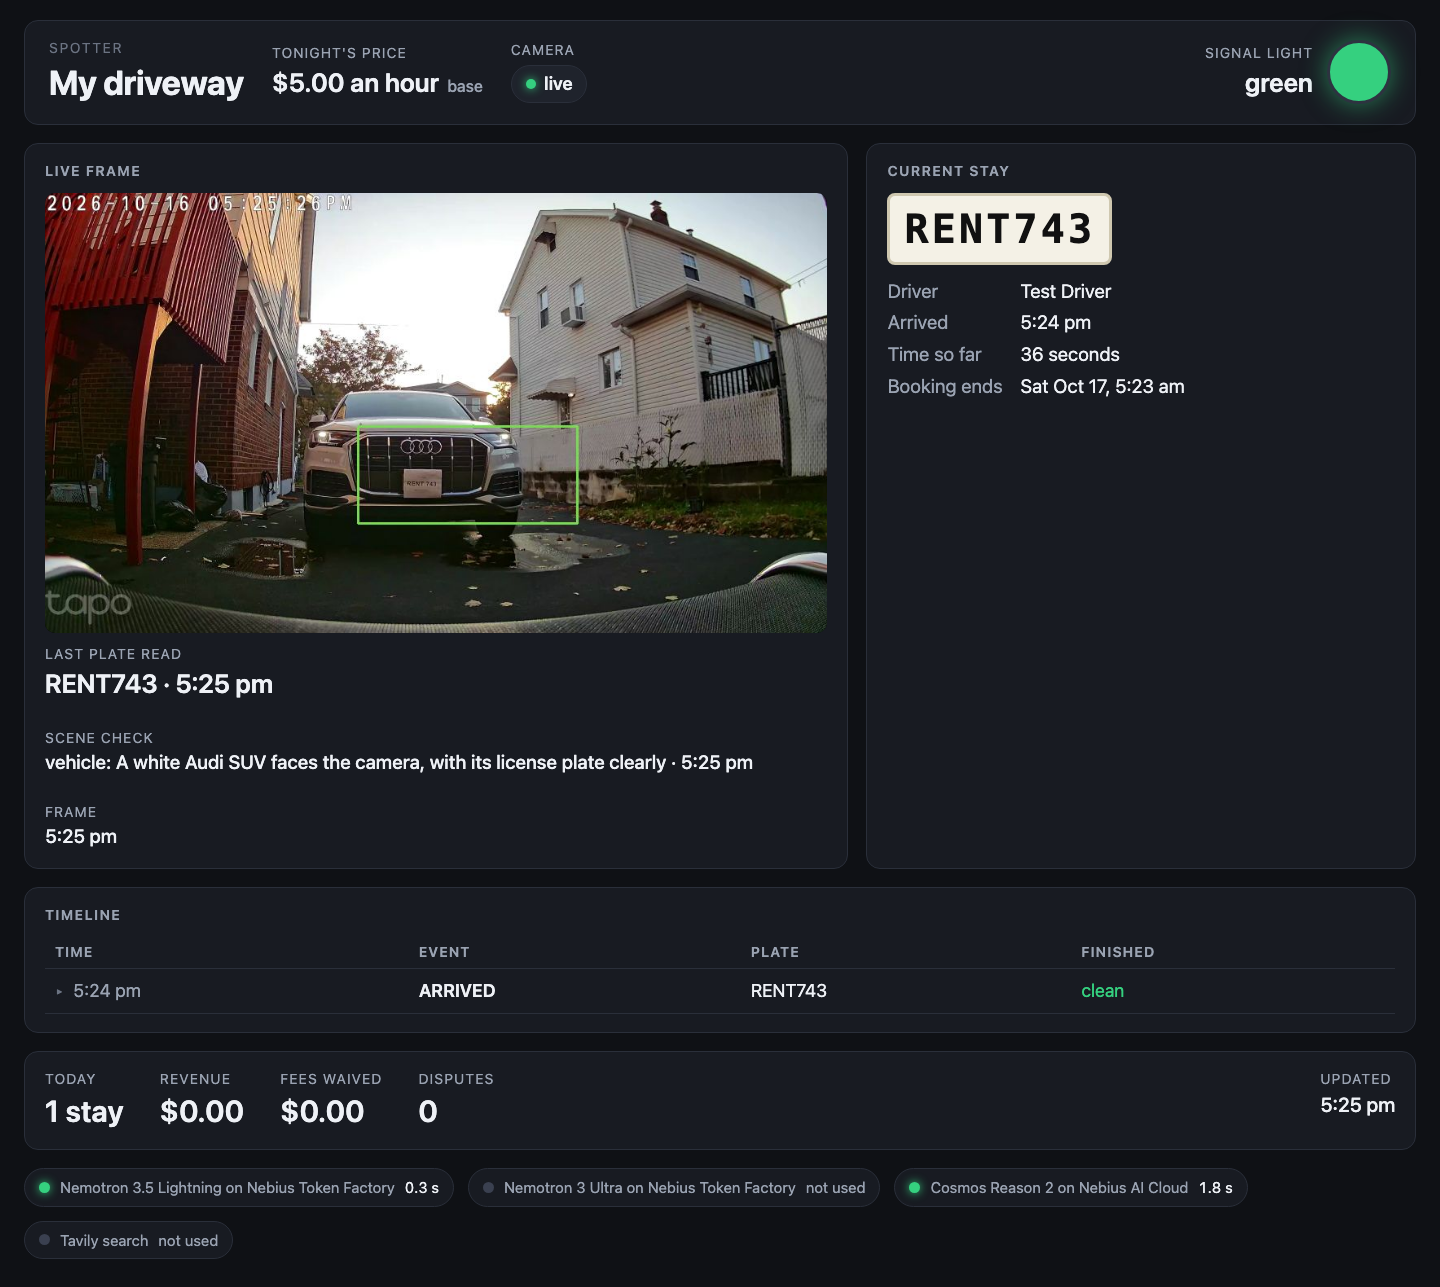
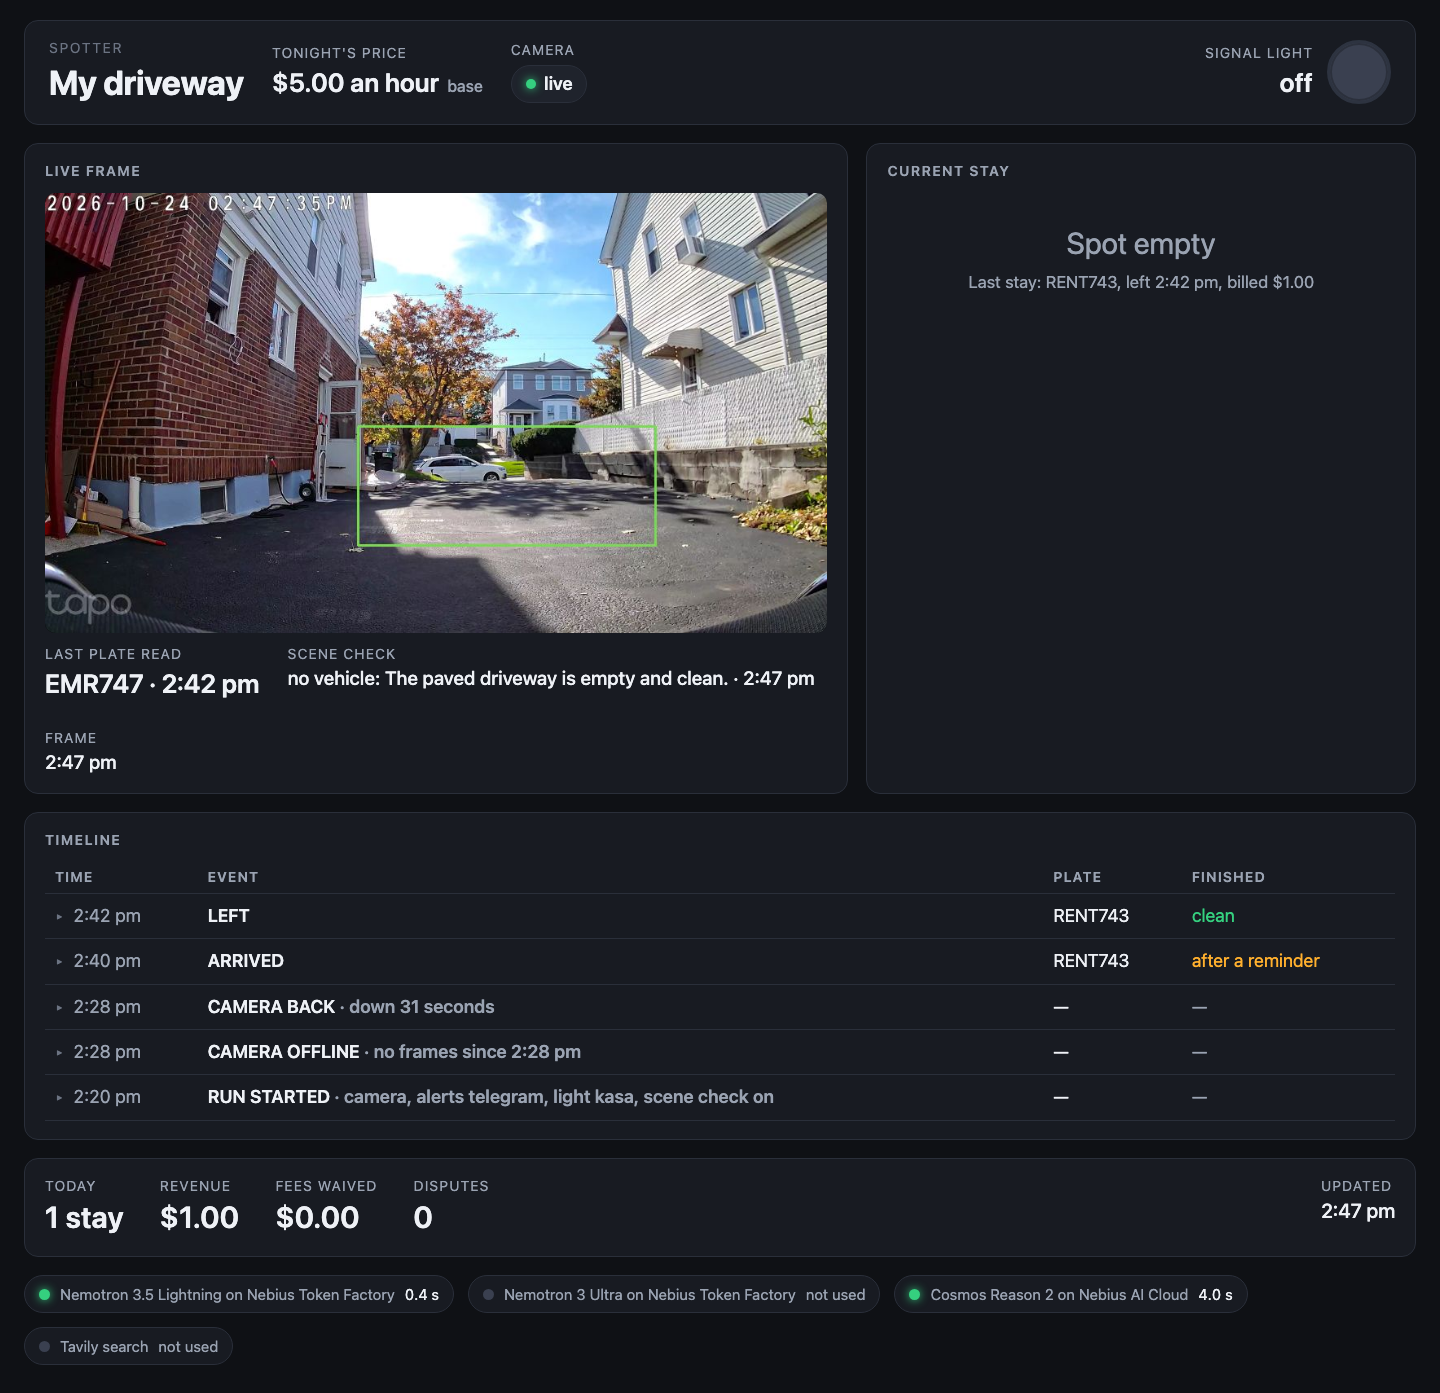
README: the demo video link, film-day numbers, the current test count, film-day screenshots
The video is public; the README links it where it said the video was not yet filmed. "What it does"
gets one paragraph on film day, 24 October 2026 (12 events, 10 clean and 2 after a reminder, both bulb
timeouts, none completed by code; 50 Lightning calls at 0.72 s with no reasoning tokens; 197 Cosmos
looks at a median of 2.1 s, seven given up, the fix in 34b6d4c) and a sentence on Sunday's price check,
which found the game 9.5 miles away after eccc816. The test count is 220 in the three places it appears.
The three rehearsal screenshots are replaced by film-day ones, checked to show only the prop plates and
no town, with captions that describe what they show.

diff --git a/README.md b/README.md
@@ -11,13 +11,14 @@ does that for one driveway with an ordinary home camera, a smart bulb, and
 models from NVIDIA served on Nebius. Code owns the money and the rules; the models decide
 what to do and what to say.
 
-![The owner's dashboard as a booked car arrives: green light, the stay open, the scene check agreeing](docs/images/arrival.png)
+![The owner's dashboard after the first scene on film day: the booked car's arrival and departure on the timeline, the $1.00 minimum billed, the scene check agreeing that the spot is empty](docs/images/arrival.png)
 
-**Demo video:** _not yet filmed; the link goes here._ The screenshots on this
-page are from rehearsal day.
+**Demo video:** [youtu.be/VI1SiGadLDo](https://youtu.be/VI1SiGadLDo), three
+minutes from film day, 24 October 2026. The screenshots on this page are from
+film day too.
 
 **No hardware, no keys?** `.venv/bin/python -m unittest discover -s tests` runs
-210 tests in a few seconds; see [Try it without hardware](#try-it-without-hardware).
+220 tests in a few seconds; see [Try it without hardware](#try-it-without-hardware).
 
 ## What it does
 
@@ -60,6 +61,20 @@ The timings are from that evening's logs.
 Every one of the 17 live events that evening finished clean: the attendant
 took every required step itself, with no reminder and nothing completed by
 code.
+
+On film day, 24 October 2026, the seven scenes were run again in daylight for
+the video, with the scene check on throughout. The attendant handled 12 events:
+10 finished clean and 2 after a reminder, both because the bulb's first command
+timed out and the finish check asked for the light once more; none was completed
+by code. Nemotron 3.5 Lightning made 50 calls at 0.72 s on average, with no
+reasoning tokens. Cosmos Reason made 197 looks at a median of 2.1 s; seven got
+no answer and were marked unavailable, and none of them stalled the looks after
+it, which is what commit 34b6d4c fixed. The next morning, Sunday 25 October, the
+price check kept the base price because the judge's own searches, phrased around
+the town, found only a concert outside the radius; after commit eccc816, which
+has code search the owner's listed venues before the judge's first turn, the
+same check found the Jets game at MetLife Stadium, 9.5 miles from the lot, and
+set the peak price with the stadium's page as its link.
 
 ## How it works
 
@@ -248,7 +263,7 @@ owner that does not carry the price the decision returned.
 
 | Command | Needs |
 | --- | --- |
-| `.venv/bin/python -m unittest discover -s tests` | nothing: 210 tests, no network |
+| `.venv/bin/python -m unittest discover -s tests` | nothing: 220 tests, no network |
 | `.venv/bin/python scripts/scenario.py overstay --expect RENT743` | a Token Factory key |
 | `.venv/bin/python scripts/scenario.py booked --expect RENT743` | a Token Factory key |
 | `.venv/bin/python scripts/scenario.py unknown --expect RENT743` | a Token Factory key |
@@ -278,11 +293,11 @@ price check runs a real search for real events near the lot tonight.
 
 ## Screenshots
 
-The arrival is at the top of this page. Two more from rehearsal day:
+The first is at the top of this page. Two more from film day, 24 October 2026:
 
-![The overstay: amber light, the fee on the stay card, the day's timeline](docs/images/overstay_fee.png)
+![The overstay on the timeline: ending soon at 3:01 pm, the fee at 3:03 pm, the car gone at 3:04 pm, the stay billed $6.00](docs/images/overstay_fee.png)
 
-![A dispute answered from the record: the stay record the judge read, the reply with photos, the owner's note](docs/images/dispute.png)
+![The two disputes on the timeline, both finished clean: the fee kept, then waived under the owner's rule, with $5.00 of fees waived in the day's totals](docs/images/dispute.png)
 
 ## Repository layout
 
@@ -324,7 +339,7 @@ scripts/
   prop_plates.py     the two prop plates as a PDF
   read_plate.py      the first plate-reader probe on photos
   check_secrets.py, install_hooks.sh   the pre-commit secret check
-tests/        210 unit tests, no network
+tests/        220 unit tests, no network
 props/        prop_plates.pdf
 docs/images/  the screenshots above
 FEEDBACK.md   dated notes on the Nebius and NVIDIA tools, with a summary at the top
